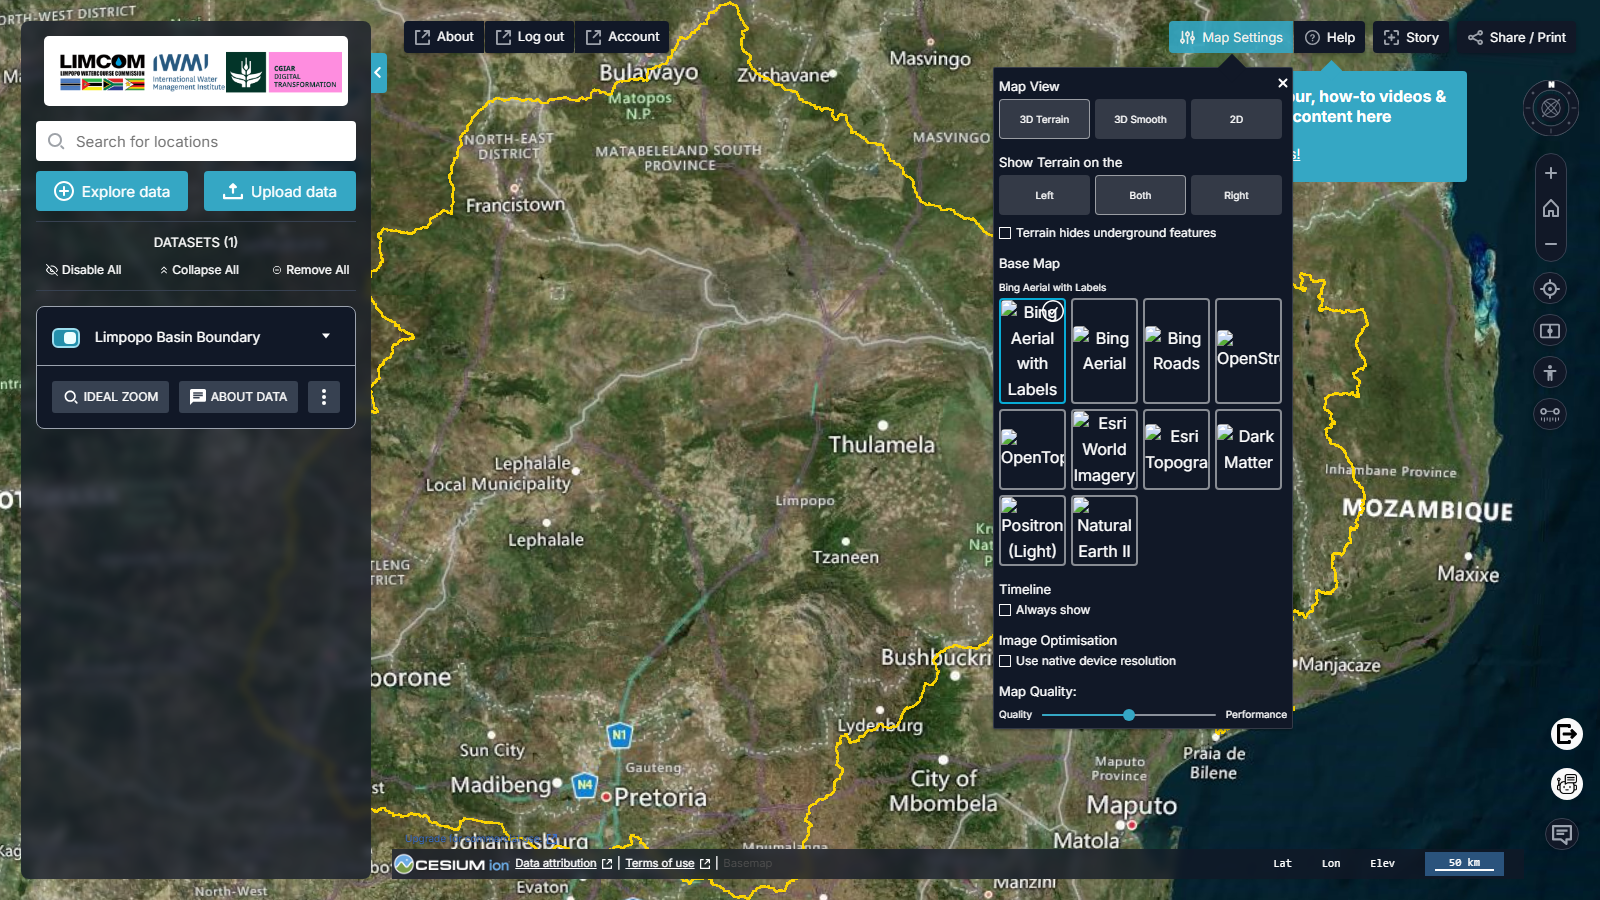
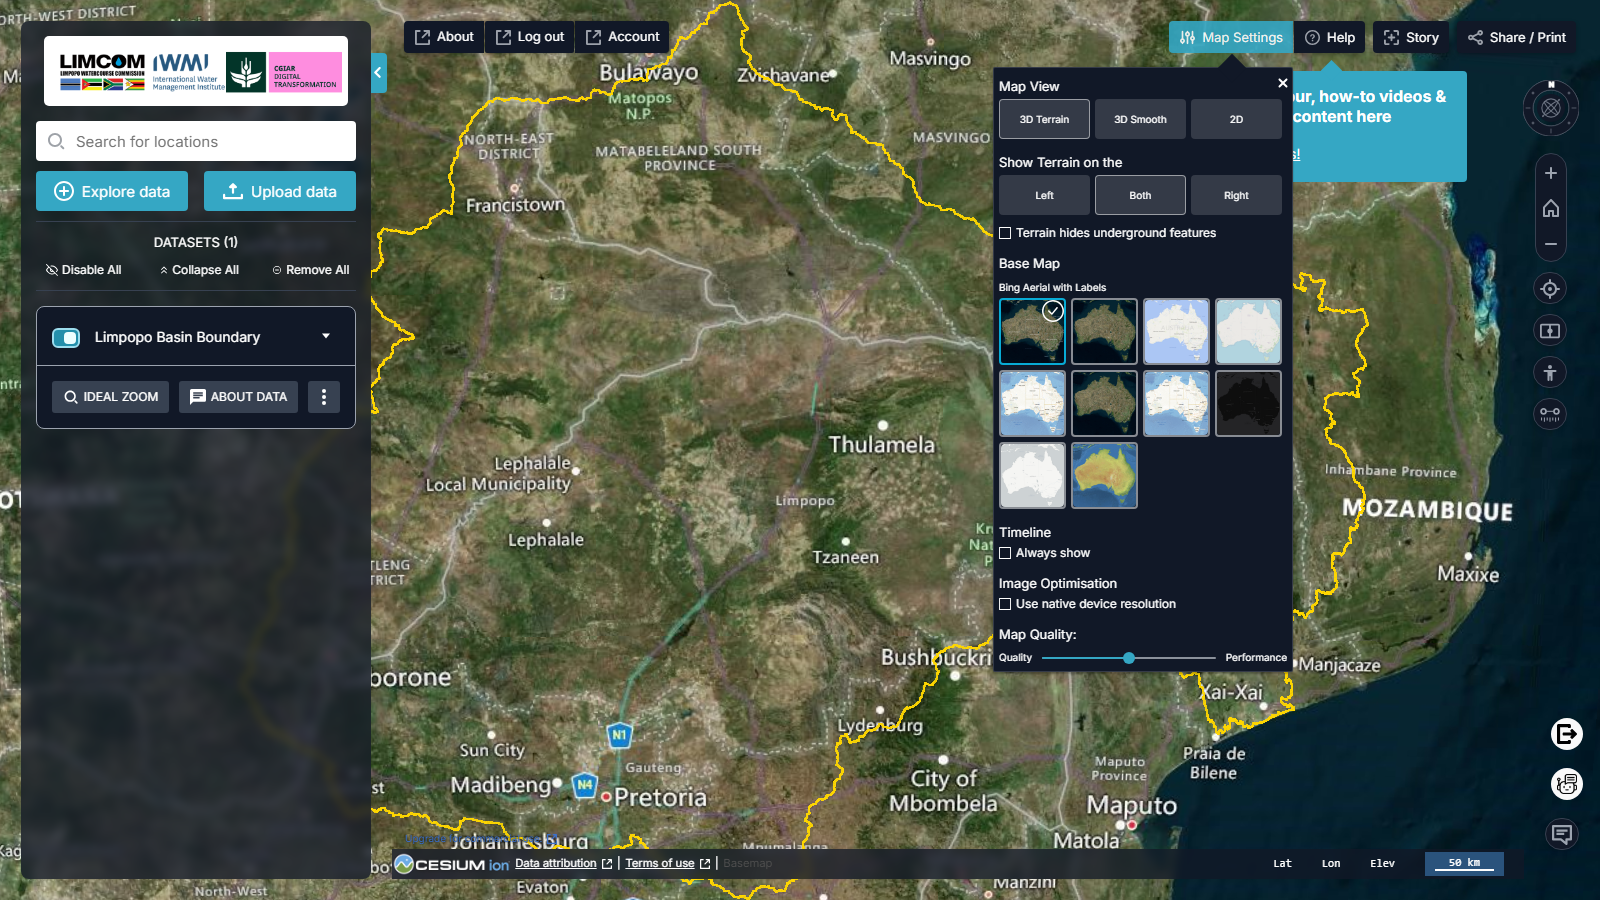
Document Google/Microsoft SSO sign-in; refresh Map Settings screenshot
- Getting Started (EN/PT): sign in with email, Google or Microsoft, or Register
- Replace Map Settings screenshot with one where basemap thumbnails render

Changed region(s): [[0.5938, 0.3111, 0.8125, 0.8089]]

diff --git a/docs/guide/getting-started.pt.md b/docs/guide/getting-started.pt.md
@@ -7,14 +7,25 @@ title: Primeiros Passos
 ## Iniciar sessão
 
 O portal v2 tem acesso controlado: ao abrir
-[limpopo.digitaltwins.iwmi.org](https://limpopo.digitaltwins.iwmi.org/) é-lhe
-pedido que **inicie sessão** antes de o mapa carregar. A autenticação é
-assegurada pelo serviço central de início de sessão do IWMI (Keycloak). Após
-iniciar sessão, a barra superior mostra **Account** (*Conta*) e **Log out**
-(*Terminar sessão*); use **Account** para gerir o seu perfil.
+[limpopo.digitaltwins.iwmi.org](https://limpopo.digitaltwins.iwmi.org/) é
+encaminhado para a página **Digital Twin Applications Single Sign-On** antes de
+o mapa carregar. Pode iniciar sessão de três formas:
+
+- **Email e palavra-passe** — introduza as credenciais e clique em **Sign In**
+  (marque **Remember me** para se manter com sessão iniciada; use
+  **Forgot Password?** para repor).
+- **Iniciar sessão com o Google** — use a sua conta Google.
+- **Iniciar sessão com a Microsoft** — use a sua conta Microsoft.
+
+Os novos utilizadores podem **Register** (*Registar*) na ligação no fundo da
+página de início de sessão.
+
+Após iniciar sessão, a barra superior mostra **Account** (*Conta*) e
+**Log out** (*Terminar sessão*); use **Account** para gerir o seu perfil.
 
 !!! info "Precisa de acesso?"
-    Se não tiver conta, contacte a equipa geoespacial do IWMI através de
+    Se não conseguir iniciar sessão ou registar-se, contacte a equipa
+    geoespacial do IWMI através de
     [iwmigeospatial@gmail.com](mailto:iwmigeospatial@gmail.com).
 
 ## O ecrã de boas-vindas

diff --git a/docs/guide/getting-started.md b/docs/guide/getting-started.md
@@ -7,13 +7,22 @@ title: Getting Started
 ## Signing in
 
 The v2 portal is access-controlled: opening
-[limpopo.digitaltwins.iwmi.org](https://limpopo.digitaltwins.iwmi.org/) prompts
-you to **sign in** before the map loads. Authentication is handled by IWMI's
-central sign-in service (Keycloak). Once signed in, the top bar shows
-**Account** and **Log out**; use **Account** to manage your profile.
+[limpopo.digitaltwins.iwmi.org](https://limpopo.digitaltwins.iwmi.org/) takes
+you to the **Digital Twin Applications Single Sign-On** page before the map
+loads. You can sign in in three ways:
+
+- **Email and password** — enter your credentials and click **Sign In**
+  (tick **Remember me** to stay signed in; use **Forgot Password?** to reset).
+- **Sign in with Google** — use your Google account.
+- **Sign in with Microsoft** — use your Microsoft account.
+
+New users can **Register** from the link at the bottom of the sign-in page.
+
+Once signed in, the top bar shows **Account** and **Log out**; use **Account**
+to manage your profile.
 
 !!! info "Need access?"
-    If you do not have an account, contact the IWMI geospatial team at
+    If you cannot sign in or register, contact the IWMI geospatial team at
     [iwmigeospatial@gmail.com](mailto:iwmigeospatial@gmail.com).
 
 ## The welcome screen
